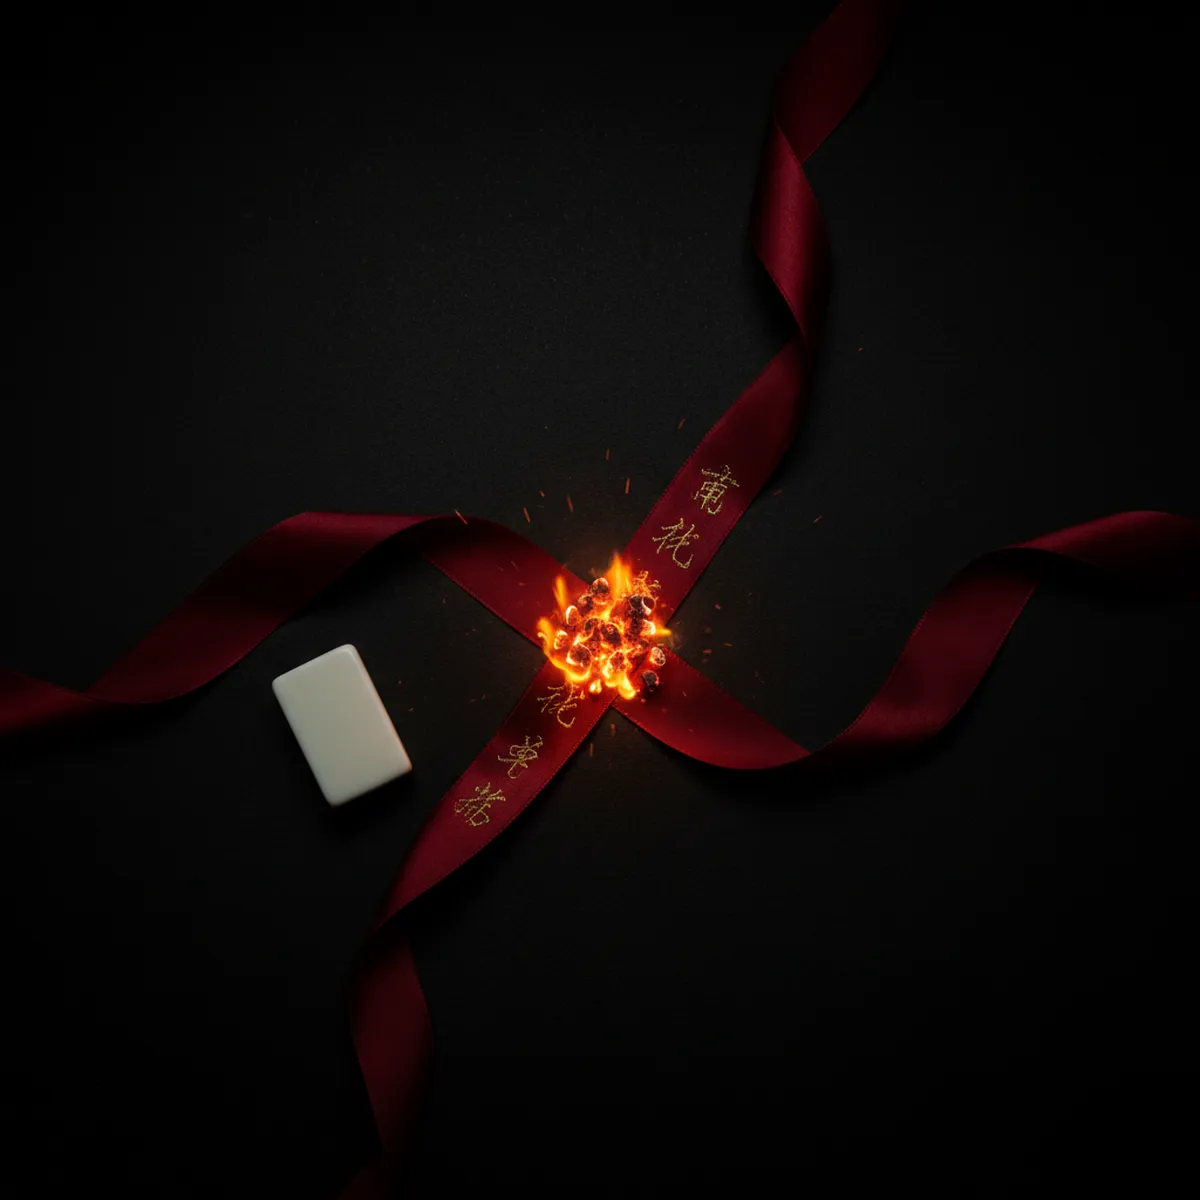
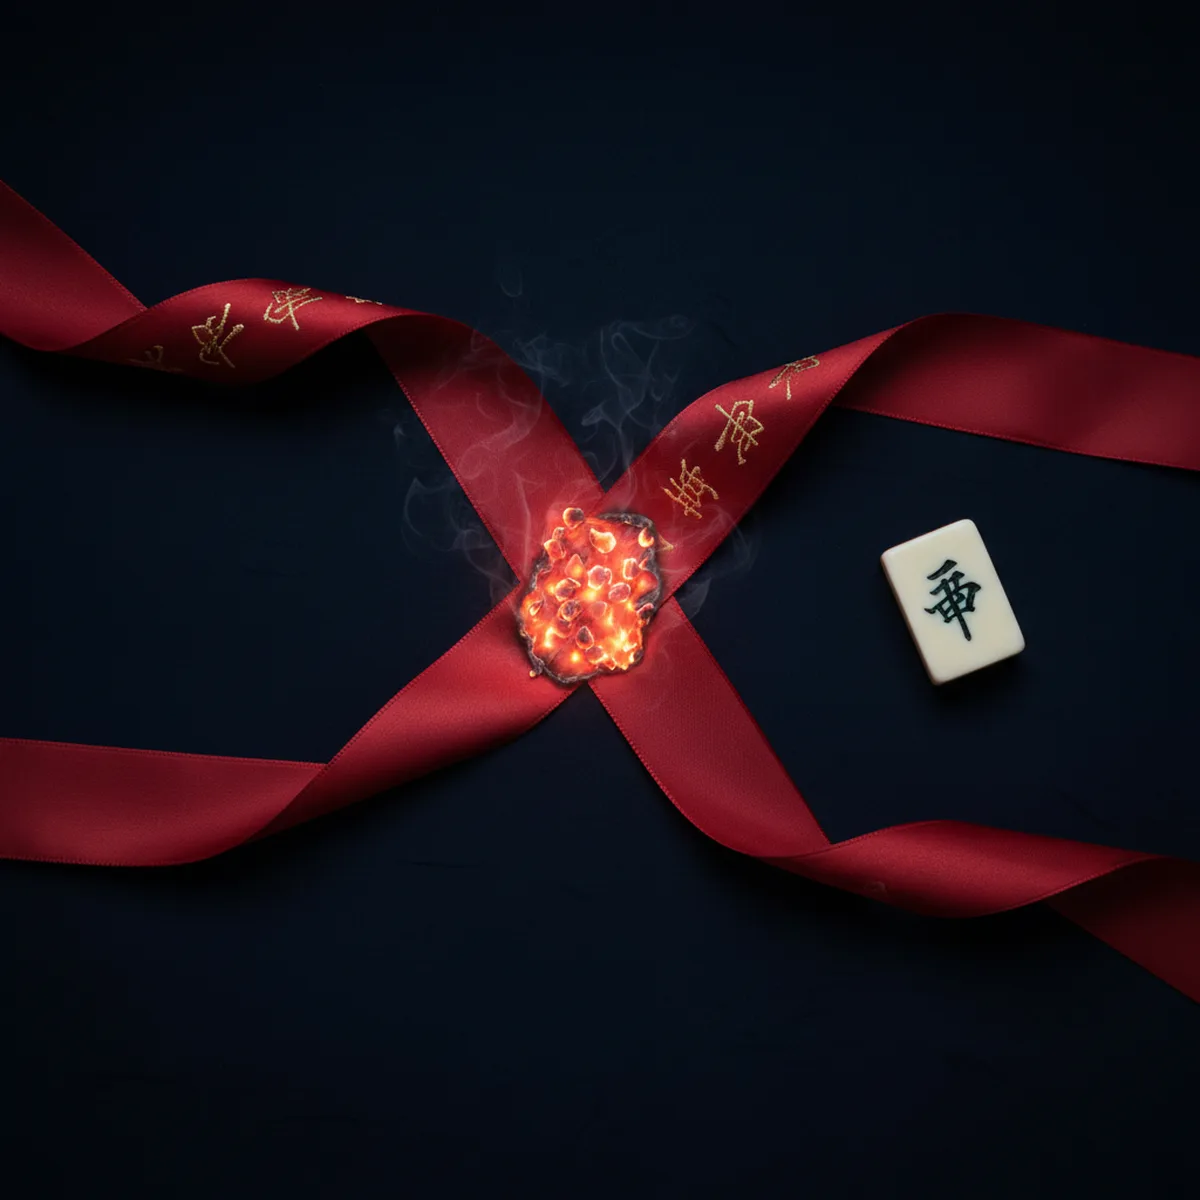
blog: rich formatting for Swift-Kelce post, navy OG images
- Risk cards with labels for each risk section
- Pivot banner (navy callout) for the directional framework
- Inline infographic, tiles, and silhouette images
- Pull quotes at key teaching moments
- Styled prediction box with Bill's call
- Related articles grid at bottom
- Regenerated OG images with navy (#1B1F3B) backgrounds
  to match site brand (was pure black, clashed)

Changed region(s): [[0.0, 0.0617, 1.0, 0.925], [0.0, 0.1542, 0.37, 0.3083]]

diff --git a/website/pages/blog/posts/swift-kelce-wedding-stars.jsx b/website/pages/blog/posts/swift-kelce-wedding-stars.jsx
@@ -1,4 +1,5 @@
 import Head from 'next/head';
+import Image from 'next/image';
 import Link from 'next/link';
 import Nav from '../../../components/Nav';
 import Footer from '../../../components/Footer';
@@ -60,53 +61,109 @@ export default function SwiftKelceWeddingStars() {
 
             <p>Most people looking at this couple's charts would stop at the animal signs. Two snakes. Year of the Fire Horse. Any Chinese astrology expert would tell you that's trouble. Even AI-generated compatibility tools, when you run their birth data, don't rate snake-snake highly.</p>
 
-            <p>But most people would be wrong. Because most people forget about the elements.</p>
+            <div className={styles.pullQuote}>
+              <p>But most people would be wrong. Because most people forget about the elements.</p>
+            </div>
 
+            {/* ── THE RISKS ── */}
             <h2>The Risks Are Real - Don't Skip This Part</h2>
 
             <p>I'm not going to pretend the charts are clean. They're not.</p>
 
-            <p><strong>Two snakes, one throne.</strong> The snake is a Yin sign, but make no mistake - it's a power sign. It wants to be dominant. Not loudly. Not aggressively. Just quietly, persistently, completely. Two snakes in a relationship means two people who both want to be No. 1. It's not a hostile clash. It's subtler than that. They both simply expect to lead.</p>
+            <div className={styles.riskCard}>
+              <span className={styles.riskLabel}>Risk #1</span>
+              <h3>Two Snakes, One Throne</h3>
+              <p>The snake is a Yin sign, but make no mistake - it's a power sign. It wants to be dominant. Not loudly. Not aggressively. Just quietly, persistently, completely. Two snakes in a relationship means two people who both want to be No. 1. It's not a hostile clash. It's subtler than that. They both simply expect to lead.</p>
+            </div>
 
             <p>Taylor Swift is arguably the most successful recording artist of all time. Travis Kelce is considered one of the greatest tight ends in NFL history. In the relationship, who emerges as No. 1? That tension doesn't go away because you love each other. It's baked into the charts.</p>
 
-            <p><strong>The Fire Horse year.</strong> Of all 60 years in the Chinese astrological cycle, the Fire Horse carries the highest probability of disasters. In Japan, couples traditionally avoid getting married in Fire Horse years altogether. It's considered that risky. Do you really want to plan one of the most important events of your life in the year statistically most likely to derail it?</p>
+            <div className={styles.riskCard}>
+              <span className={styles.riskLabel}>Risk #2</span>
+              <h3>The Fire Horse Year</h3>
+              <p>Of all 60 years in the Chinese astrological cycle, the Fire Horse carries the highest probability of disasters. In Japan, couples traditionally avoid getting married in Fire Horse years altogether. It's considered that risky. Do you really want to plan one of the most important events of your life in the year statistically most likely to derail it?</p>
+            </div>
 
-            <p><strong>Quadruple fire.</strong> They are both Earth Fire Snakes, born the same year. Add a double Fire year on top of that and you get quadruple fire energy. In a Fire Horse year, temperaments flare more easily than in any other year. Issues crop up that wouldn't exist in a calmer year, and they get blown out of proportion. Arguments become things you can't walk back.</p>
+            <div className={styles.riskCard}>
+              <span className={styles.riskLabel}>Risk #3</span>
+              <h3>Quadruple Fire</h3>
+              <p>They are both Earth Fire Snakes, born the same year. Add a double Fire year on top of that and you get quadruple fire energy. In a Fire Horse year, temperaments flare more easily than in any other year. Issues crop up that wouldn't exist in a calmer year, and they get blown out of proportion. Arguments become things you can't walk back.</p>
+            </div>
 
             <p>There's another layer here. After the wedding, Travis heads into what is likely his final NFL season - already past his peak. Taylor is at the absolute height of her career. One person is ascending. The other is transitioning into a second act. When one partner's fire is a creative force and the other's is burning down, that imbalance becomes a real pressure point. In a Fire Horse year, there's no middle ground.</p>
 
-            <h2>The Fire Horse Is Not Good or Bad. It's Directional.</h2>
-
-            <p>This is where the Mahjong Mirror framework comes in.</p>
-
-            <p>We don't speak in terms of good and bad. We speak in terms of risk. The Fire Horse isn't a curse - it's fast, passionate, chaotic. High risk and high reward. The question isn't whether the fire is there. The question is which direction it burns.</p>
+            {/* ── THE PIVOT ── */}
+            <div className={styles.pivotBanner}>
+              <h2>The Fire Horse Is Not Good or Bad. It's Directional.</h2>
+              <p>This is where the Mahjong Mirror framework comes in. We don't speak in terms of good and bad. We speak in terms of risk. The Fire Horse isn't a curse - it's fast, passionate, chaotic. High risk and high reward. The question isn't whether the fire is there. The question is which direction it burns.</p>
+            </div>
 
             <p>And on the reward side of this particular chart, I see something most people are missing entirely.</p>
 
+            {/* ── WHAT THE ELEMENTS REVEAL ── */}
             <h2>What the Elements Reveal</h2>
 
             <p>Here's the part that changes everything - and the part most astrology analyses skip.</p>
 
             <p>Because Taylor and Travis are both Earth Fire Snakes born in the same year, each person's Fire energy is the ideal fuel for the other's Earth energy. This isn't just compatibility. It's amplification. Each one makes the other more powerful.</p>
 
-            <p>Now look at their elements laid out across the year, month, and day signs. Taylor's chart reads Earth, Fire, Water. Travis's reads Earth, Water, Fire. Not identical - mirrored. Almost perfectly balanced. Between the two of them, they carry three of the four elements. In Chinese philosophy, balance is the foundation of sustained success. Most couples are elementally lopsided. These two are not.</p>
+            <figure className={styles.inlineFigure}>
+              <Image
+                src="/images/blog/swift-kelce-infographic.webp"
+                alt="Elemental comparison: Taylor (Earth, Fire, Water) and Travis (Earth, Water, Fire) with crossing lines showing the mirror effect"
+                width={720}
+                height={720}
+                style={{ width: '100%', height: 'auto' }}
+              />
+              <figcaption>Their elements mirror each other almost perfectly. 3 of 4 elements present.</figcaption>
+            </figure>
 
-            <p>I ran the AI compatibility tools on their charts. The AI gave them a stronger score specifically because of the shared Earth element. I don't fully agree with the exact number the algorithm produced - but I agree with the direction. The Earth element changes the equation. And that's the teaching moment here: don't just look at the animal sign. Look at the element. That's where the real story lives.</p>
+            <p>Taylor's chart reads Earth, Fire, Water. Travis's reads Earth, Water, Fire. Not identical - mirrored. Almost perfectly balanced. Between the two of them, they carry three of the four elements. In Chinese philosophy, balance is the foundation of sustained success. Most couples are elementally lopsided. These two are not.</p>
 
-            <p><strong>Their power signs tell the rest of the story.</strong> Across their combined year, month, and day charts, four of six signs are power signs. Travis's three signs - Snake, Rooster, Snake - all fall in the same compatibility group. That gives him natural inner peace, confidence, and balance. It's not something he works for. It's born into him. You can see it in how he carries himself.</p>
+            <p>I ran the AI compatibility tools on their charts. The AI gave them a stronger score specifically because of the shared Earth element. I don't fully agree with the exact number the algorithm produced - but I agree with the direction. The Earth element changes the equation.</p>
+
+            <div className={styles.pullQuote}>
+              <p>Don't just look at the animal sign. Look at the element. That's where the real story lives.</p>
+            </div>
+
+            <figure className={styles.inlineFigure}>
+              <Image
+                src="/images/blog/swift-kelce-tiles.webp"
+                alt="Six mahjong tiles arranged in two rows showing Taylor and Travis's zodiac signs - four glowing gold as power signs"
+                width={720}
+                height={720}
+                style={{ width: '100%', height: 'auto' }}
+              />
+              <figcaption>Four of their six combined signs are power signs.</figcaption>
+            </figure>
+
+            <p>Across their combined year, month, and day charts, four of six signs are power signs. Travis's three signs - Snake, Rooster, Snake - all fall in the same compatibility group. That gives him natural inner peace, confidence, and balance. It's not something he works for. It's born into him. You can see it in how he carries himself.</p>
 
             <p>Taylor's three signs - Dragon, Snake, and a Rat-Dragon combination - are loaded with power and additionally favorable pairings. She has significant inner strength written into her chart.</p>
 
             <p>It would sound obvious to say Taylor Swift and Travis Kelce are a power couple. What isn't obvious is that their charts confirm it. Most so-called power couples don't have the astrological architecture to back it up. These two do.</p>
 
+            {/* ── THE PREDICTION ── */}
             <h2>The Prediction</h2>
 
             <p>Here's where I go out on a limb.</p>
 
-            <p>This relationship works. And it probably lasts a long time. That's a bold call when you're talking about celebrities, who as a group have a train wreck track record with marriage. But the charts support it.</p>
+            <div className={styles.predictionBox}>
+              <span className={styles.predictionLabel}>Bill's Call</span>
+              <p>This relationship works. And it probably lasts a long time. Signs said no. Elements said maybe. The full chart says yes.</p>
+            </div>
 
-            <p>Signs said no. Elements said maybe. The full chart says yes.</p>
+            <p>That's a bold call when you're talking about celebrities, who as a group have a train wreck track record with marriage. But the charts support it.</p>
+
+            <figure className={styles.inlineFigure}>
+              <Image
+                src="/images/blog/swift-kelce-silhouette.webp"
+                alt="Two silhouettes at sunset - one holding a microphone, the other a football - their shadows merging into one"
+                width={720}
+                height={720}
+                style={{ width: '100%', height: 'auto' }}
+              />
+            </figure>
 
             <p>And honestly? The love match might not even be the most interesting part. She is already a media mogul. He is building a media empire - one of the most successful podcasts in the country. They're both power signs. They're elementally balanced. When you combine power with balance, that's rare. This could be a great partnership not just for love, but for business.</p>
 
@@ -121,6 +178,39 @@ export default function SwiftKelceWeddingStars() {
               <span />
             </nav>
 
+          </div>
+        </div>
+
+        {/* ── Related Articles ── */}
+        <div className="container">
+          <div className={styles.relatedSection}>
+            <h2>More Articles</h2>
+            <div className={styles.relatedGrid}>
+              <Link href="/blog/posts/love-in-the-fire-horse-year" className={styles.relatedCard}>
+                <div className={styles.relatedCardImage}>
+                  <Image
+                    src="/images/blog/love-in-the-fire-horse-year.webp"
+                    alt="Love in the Year of the Fire Horse"
+                    fill
+                    style={{ objectFit: 'cover' }}
+                  />
+                </div>
+                <h3>Love in the Year of the Fire Horse</h3>
+                <span>Apr 6, 2026</span>
+              </Link>
+              <Link href="/blog/posts/who-has-the-most-luck-in-the-fire-horse-year" className={styles.relatedCard}>
+                <div className={styles.relatedCardImage}>
+                  <Image
+                    src="/images/blog/who-has-the-most-luck-in-the-fire-horse-year.webp"
+                    alt="Who Has the Most Luck in the Fire Horse Year?"
+                    fill
+                    style={{ objectFit: 'cover' }}
+                  />
+                </div>
+                <h3>Who Has the Most Luck in 2026?</h3>
+                <span>Apr 5, 2026</span>
+              </Link>
+            </div>
           </div>
         </div>
 

diff --git a/website/styles/BlogPost.module.css b/website/styles/BlogPost.module.css
@@ -148,6 +148,157 @@
   margin-bottom: 0;
 }
 
+/* ── Risk Cards ── */
+.riskCard {
+  background-color: var(--light-stone);
+  padding: var(--space-xl);
+  margin: var(--space-xl) 0;
+}
+.riskCard h3 {
+  font-size: 22px;
+  margin: 0 0 var(--space-md);
+  color: var(--midnight-indigo);
+}
+.riskCard p {
+  font-size: 17px;
+  line-height: 1.75;
+  margin-bottom: 0;
+}
+.riskLabel {
+  display: inline-block;
+  font-family: 'Source Sans 3', sans-serif;
+  font-weight: 600;
+  font-size: 10px;
+  letter-spacing: 0.12em;
+  text-transform: uppercase;
+  padding: 3px 8px;
+  margin-bottom: var(--space-md);
+  background-color: var(--mystic-fire);
+  color: var(--warm-cream);
+}
+
+/* ── Pivot / Callout Banner ── */
+.pivotBanner {
+  background-color: var(--midnight-indigo);
+  color: var(--warm-cream);
+  padding: var(--space-2xl);
+  margin: var(--space-3xl) calc(-1 * var(--space-xl));
+  text-align: center;
+}
+.pivotBanner h2 {
+  color: var(--celestial-gold);
+  font-size: 28px;
+  margin: 0 0 var(--space-md);
+}
+.pivotBanner p {
+  color: rgba(250,248,244,0.85);
+  font-size: 18px;
+  max-width: 560px;
+  margin: 0 auto;
+  line-height: 1.7;
+}
+
+/* ── Inline Figure ── */
+.inlineFigure {
+  margin: var(--space-2xl) 0;
+}
+.inlineFigure img {
+  width: 100%;
+  height: auto;
+  display: block;
+}
+.inlineFigure figcaption {
+  font-family: 'Source Sans 3', sans-serif;
+  font-size: 13px;
+  color: rgba(0,0,0,0.5);
+  text-align: center;
+  margin-top: var(--space-sm);
+  letter-spacing: 0.02em;
+}
+
+/* ── Prediction Box ── */
+.predictionBox {
+  background-color: var(--midnight-indigo);
+  color: var(--warm-cream);
+  padding: var(--space-2xl);
+  margin: var(--space-2xl) 0;
+  text-align: center;
+}
+.predictionBox .predictionLabel {
+  display: inline-block;
+  font-family: 'Source Sans 3', sans-serif;
+  font-weight: 600;
+  font-size: 11px;
+  letter-spacing: 0.12em;
+  text-transform: uppercase;
+  color: var(--celestial-gold);
+  margin-bottom: var(--space-md);
+}
+.predictionBox p {
+  font-family: 'Playfair Display', serif;
+  font-size: 24px;
+  line-height: 1.5;
+  color: var(--warm-cream);
+  margin: 0;
+}
+
+/* ── Pull Quote ── */
+.pullQuote {
+  border-left: 3px solid var(--celestial-gold);
+  padding: var(--space-md) var(--space-xl);
+  margin: var(--space-2xl) 0;
+}
+.pullQuote p {
+  font-family: 'Playfair Display', serif;
+  font-style: italic;
+  font-size: 22px;
+  line-height: 1.6;
+  color: var(--midnight-indigo);
+  margin: 0;
+}
+
+/* ── Related Articles ── */
+.relatedSection {
+  max-width: 720px;
+  margin-top: var(--space-3xl);
+  padding-top: var(--space-3xl);
+  border-top: 1px solid var(--light-stone);
+}
+.relatedSection h2 {
+  font-size: 24px;
+  margin: 0 0 var(--space-xl);
+}
+.relatedGrid {
+  display: grid;
+  grid-template-columns: 1fr 1fr;
+  gap: var(--space-xl);
+}
+.relatedCard {
+  text-decoration: none;
+  color: inherit;
+  display: block;
+}
+.relatedCard:hover h3 { color: var(--mystic-fire); }
+.relatedCardImage {
+  position: relative;
+  width: 100%;
+  aspect-ratio: 16 / 9;
+  overflow: hidden;
+  margin-bottom: var(--space-md);
+  background-color: var(--light-stone);
+}
+.relatedCard h3 {
+  font-size: 17px;
+  line-height: 1.4;
+  margin: 0 0 var(--space-xs);
+  transition: color 0.2s;
+}
+.relatedCard span {
+  font-family: 'Source Sans 3', sans-serif;
+  font-size: 13px;
+  color: rgba(0,0,0,0.5);
+}
+
 @media (max-width: 768px) {
   .signGrid  { grid-template-columns: repeat(2, 1fr); }
   .postNav   { flex-direction: column; }
